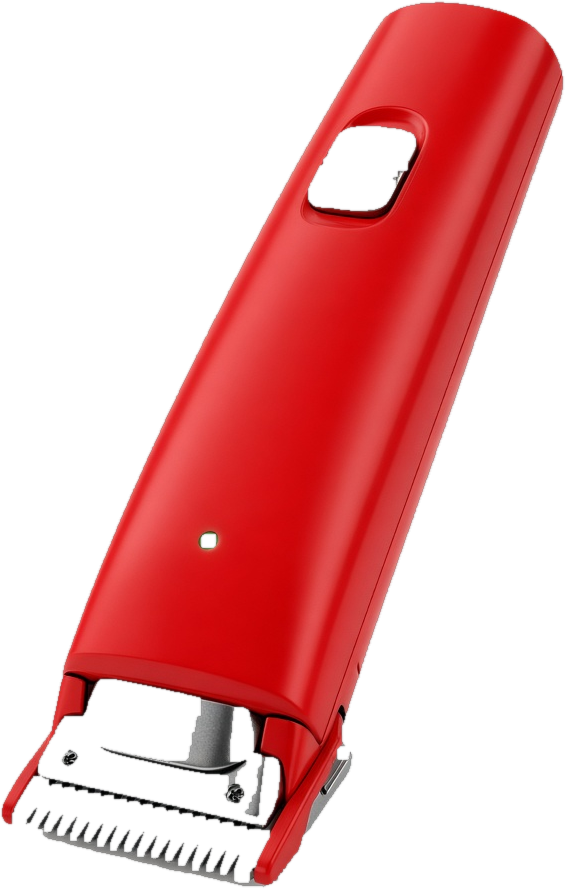
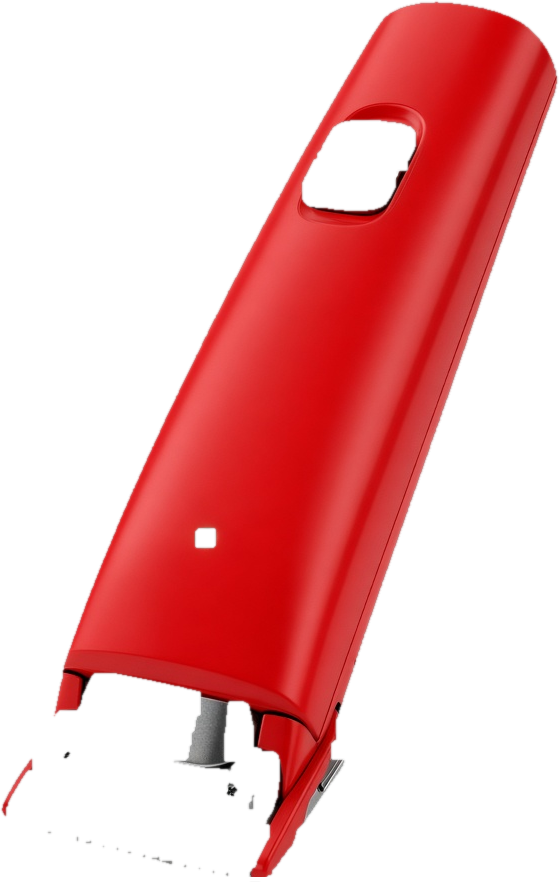
Slow MM clipper reel to ~22s and drop the red hair stripe.
Longer hook/BF/foam holds; tip shadow only (no laser path); cleaner blade matte.

diff --git a/scripts/mm_clipper_v8_95_reel.py b/scripts/mm_clipper_v8_95_reel.py
@@ -22,7 +22,7 @@ from pathlib import Path
 import numpy as np
 from PIL import Image, ImageDraw, ImageEnhance, ImageFilter, ImageFont
 
-W, H, FPS, DUR = 1080, 1920, 30, 17.5
+W, H, FPS, DUR = 1080, 1920, 30, 22.0
 N = int(round(FPS * DUR))
 COVER_HOLD_SEC = 0.8
 COVER_HOLD_N = int(round(COVER_HOLD_SEC * FPS))
@@ -49,19 +49,18 @@ def load_clipper() -> Image.Image | None:
 FONT = "/usr/share/fonts/truetype/croscore/Arimo-Bold.ttf"
 FONT_REG = "/usr/share/fonts/truetype/croscore/Arimo-Regular.ttf"
 
-# Beat map — BF readable, then foam held long enough to see
-HOOK_END = 2.15
-STOP_END = 3.35
-PRODUCT_IN = 3.45
-ID_END = 6.00
-MONTHS_END = 7.60
-PRICE_END = 11.00
-# Soft foam pop — short fades, long full-opaque hold (no muddy double-exposure)
-FOAM_IN = 11.15
-FOAM_PEAK = 12.80
-FOAM_OUT = 14.55
-SHIP_END = 15.30
-FOAM_FADE = 0.28
+# Beat map — slower holds so offer/foam are readable (was rushing at ~17.5s)
+HOOK_END = 3.20
+STOP_END = 4.60
+PRODUCT_IN = 4.70
+ID_END = 7.80
+MONTHS_END = 10.00
+PRICE_END = 14.20
+FOAM_IN = 14.40
+FOAM_PEAK = 16.40
+FOAM_OUT = 18.40
+SHIP_END = 19.40
+FOAM_FADE = 0.35
 
 
 def font(size: int, bold: bool = True) -> ImageFont.FreeTypeFont:
@@ -266,13 +265,6 @@ def draw_red_clipper(canvas: Image.Image, cx: float, tip_y: float, *, scale: flo
     # tip = bottom-center of rotated bbox (blade teeth)
     px = cx - clip.width // 2
     py = tip_y - clip.height + 8
-    # tiny red motion smear only (never pale/white ghost trails)
-    if buzz > 0.45:
-        smear = Image.new("RGBA", clip.size, (0, 0, 0, 0))
-        sa = clip.split()[-1].point(lambda v: int(v * 0.14))
-        smear.paste((180, 18, 24, 255), box=(0, 0, clip.width, clip.height), mask=sa)
-        layer.alpha_composite(smear, (px - 5, py))
-        layer.alpha_composite(smear, (px + 5, py))
     # 1px dark holdout under the cutout kills residual halo on scalp
     hold = clip.split()[-1].filter(ImageFilter.MaxFilter(3))
     hold = hold.point(lambda v: 90 if v > 20 else 0)
@@ -283,24 +275,13 @@ def draw_red_clipper(canvas: Image.Image, cx: float, tip_y: float, *, scale: flo
     canvas.alpha_composite(layer)
 
 
-def red_cut_path(canvas: Image.Image, t: float, tip_y: float, mode: str = "both"):
-    """Threat laser under the blade tip + soft dark wake (no white shave blob)."""
+def tip_contact(canvas: Image.Image, tip_y: float, t: float):
+    """Soft dark contact under the blade only — no red laser stripe on the hair."""
     layer = Image.new("RGBA", (W, H), (0, 0, 0, 0))
     d = ImageDraw.Draw(layer)
-    x = int(W * 0.50 + 5 * math.sin(t * 22))
-    start_y = int(H * 0.24)
+    x = int(W * 0.50 + 4 * math.sin(t * 18))
     tip = int(tip_y)
-    if mode in ("wake", "both"):
-        wake_bot = max(start_y + 8, tip - 18)
-        if wake_bot > start_y:
-            for w, a in ((40, 22), (22, 40), (10, 58)):
-                d.line((x, start_y, x, wake_bot), fill=(28, 18, 14, a), width=w)
-    if mode in ("laser", "both"):
-        ahead = int(min(H * 0.78, tip + 200 + 36 * math.sin(t * 9)))
-        if ahead > tip + 10:
-            for w, a in ((14, 36), (6, 110), (2, 220)):
-                d.line((x, tip + 2, x, ahead), fill=(220, 28, 34, a), width=w)
-            d.ellipse((x - 7, tip - 2, x + 7, tip + 10), fill=(220, 32, 38, 70))
+    d.ellipse((x - 48, tip + 2, x + 48, tip + 36), fill=(12, 8, 6, 55))
     canvas.alpha_composite(layer)
 
 
@@ -441,22 +422,20 @@ def frame_at(i: int, scalp: Image.Image, bottles: Image.Image, foam: Image.Image
         plate = cover_window(scalp, zoom=zoom, focus_x=fx, focus_y=fy)
         plate = grade(plate, contrast=1.22, bright=0.88, color=1.08)
         canvas = plate.convert("RGBA")
-        progress = ease_in_out(min(1.0, t / 1.45))
+        # slower descent across the longer hook
+        progress = ease_in_out(min(1.0, t / 2.55))
         tip_y = H * (0.28 + 0.38 * progress)
-        enter = ease_out(min(1.0, t / 0.22))
-        # tip_y is blade teeth; enter slides the whole machine in from above
+        enter = ease_out(min(1.0, t / 0.35))
         clip_tip = tip_y + (1.0 - enter) * (-200)
-        clip_x = W * 0.50 + 10 * math.sin(t * 22)
-        # wake under the body first, then clipper, then laser in front of the teeth
-        red_cut_path(canvas, t, clip_tip, mode="wake")
+        clip_x = W * 0.50 + 8 * math.sin(t * 16)
+        tip_contact(canvas, clip_tip, t)
         draw_red_clipper(
             canvas,
             clip_x,
             clip_tip,
-            scale=1.55 + 0.10 * math.sin(t * 18),
-            buzz=1.0 + 0.55 * math.sin(t * 44),
+            scale=1.55 + 0.08 * math.sin(t * 14),
+            buzz=0.85 + 0.40 * math.sin(t * 36),
         )
-        red_cut_path(canvas, t, clip_tip, mode="laser")
     elif t < STOP_END:
         canvas = Image.new("RGBA", (W, H), (6, 8, 12, 255))
     else:
@@ -637,9 +616,8 @@ def build_hook_cover(scalp: Image.Image) -> Image.Image:
     plate = grade(plate, contrast=1.24, bright=0.87, color=1.08)
     canvas = plate.convert("RGBA")
     tip_y = H * 0.52
-    red_cut_path(canvas, 1.25, tip_y, mode="wake")
-    draw_red_clipper(canvas, W * 0.50, tip_y, scale=1.72, buzz=0.95)
-    red_cut_path(canvas, 1.25, tip_y, mode="laser")
+    tip_contact(canvas, tip_y, 1.25)
+    draw_red_clipper(canvas, W * 0.50, tip_y, scale=1.72, buzz=0.55)
     chip_block(canvas, int(H * 0.08), ["לגלח את זה", "ולגמור עם זה?"], size=64, opacity=1.0, style="hook", pop=1.0)
 
     layer = Image.new("RGBA", (W, H), (0, 0, 0, 0))
@@ -715,7 +693,7 @@ def render() -> Path:
     cover_path = OUT / "MinoxShop_MM_clipper_v8_COVER.jpg"
     cover.save(cover_path, quality=95)
 
-    print(f"Rendering {N} frames (v8 — 9.5 aim: 3D clipper, clean product, punch audio)…")
+    print(f"Rendering {N} frames (v8 pace — slower holds, no red stripe)…")
     for i in range(N):
         im = frame_at(i, scalp, bottles_p, foam_p, logo)
         im.save(frames / f"f_{i:05d}.png")
@@ -725,7 +703,7 @@ def render() -> Path:
     audio = OUT / "audio.wav"
     make_audio(audio)
 
-    mp4 = OUT / "MinoxShop_MM_clipper_v8_17s.mp4"
+    mp4 = OUT / "MinoxShop_MM_clipper_v8_22s.mp4"
     encode_mp4(frames, audio, mp4)
 
     yt_frames = OUT / "frames_yt"
@@ -750,19 +728,20 @@ def render() -> Path:
     encode_mp4(yt_frames, yt_audio, yt_mp4)
 
     ART.mkdir(parents=True, exist_ok=True)
-    shutil.copy2(mp4, ART / "DOWNLOAD_MinoxShop_MM_clipper_v8_17s.mp4")
+    shutil.copy2(mp4, ART / "DOWNLOAD_MinoxShop_MM_clipper_v8_22s.mp4")
+    shutil.copy2(mp4, ART / "DOWNLOAD_MinoxShop_MM_clipper_v8_17s.mp4")  # alias for old download name
     shutil.copy2(yt_mp4, ART / "DOWNLOAD_MinoxShop_MM_clipper_v8_YT.mp4")
     shutil.copy2(cover_path, ART / "DOWNLOAD_MinoxShop_MM_clipper_v8_COVER.jpg")
     shutil.copy2(mp4, ART / "mm_clipper_v8_demo.mp4")
     for label, sec in (
-        ("hook", 0.45),
-        ("clipper", 1.5),
-        ("stop", 2.7),
-        ("product", 4.5),
-        ("six", 6.7),
-        ("price", 9.0),
-        ("foam", 12.8),
-        ("cta", 16.0),
+        ("hook", 0.6),
+        ("clipper", 2.2),
+        ("stop", 3.8),
+        ("product", 5.5),
+        ("six", 8.5),
+        ("price", 12.0),
+        ("foam", 16.4),
+        ("cta", 20.2),
     ):
         frame_at(int(sec * FPS), scalp, bottles_p, foam_p, logo).save(ART / f"mm_v8_preview_{label}.jpg", quality=92)
     cover.save(ART / "mm_v8_preview_cover.jpg", quality=92)

diff --git a/reels/members-mark-liquid-v8/README.md b/reels/members-mark-liquid-v8/README.md
@@ -2,8 +2,9 @@
 
 After IG upload feedback:
 - Photoreal red clipper cutout (`assets/clipper_rgba.png`) — choked matte, no white fringe
-- Threat laser under the blade tip + dark wake (no white shave blob / no logo-on-product)
-- Clean 6-bottle pack; BF price stack at top with room so caps/labels stay clear; logo only on CTA
+- No red laser stripe on hair — soft tip shadow only
+- Slower ~22s pace (longer hook / BF / foam holds)
+- Clean 6-bottle pack; BF stack clear of caps; logo only on CTA
 - Harder buzz → silence on «רגע» + stronger BF audio punch
 - Hook cover built-in
 

diff --git a/reels/members-mark-liquid-v8/CAPTION.md b/reels/members-mark-liquid-v8/CAPTION.md
@@ -21,5 +21,5 @@ BLACK FRIDAY · מחיר שובר שוק · 375₪
 הקישור בפרופיל 👆
 ```
 
-- IG/TT/FB → `MinoxShop_MM_clipper_v8_17s.mp4` + `…_v8_COVER.jpg`
+- IG/TT/FB → `MinoxShop_MM_clipper_v8_22s.mp4` + `…_v8_COVER.jpg`
 - YT → `MinoxShop_MM_clipper_v8_YT.mp4`
